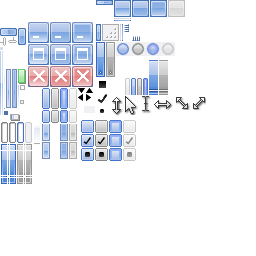
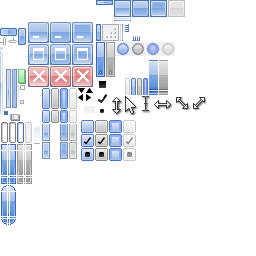
bugfixes

Changed region(s): [[0.0, 0.7188, 0.0625, 0.875]]

diff --git a/api/gui.cpp b/api/gui.cpp
@@ -14,7 +14,7 @@
 #define STANDARD_BACKGROUND_COLOR (0xFFF0F0F5)
 
 // TODO Prevent flickering during window resize.
-// TODO Buggy animations with window resize handles.
+// TODO Bottom of titlebar text cutoff.
 
 struct UIImage {
 	OSRectangle region;
@@ -99,7 +99,7 @@ struct Control : APIObject {
 	LinkedItem<Control> timerControlItem;
 	uint16_t timerHz, timerStep;
 
-	uint8_t animationStep, finalAnimationStep;
+	uint8_t animationStep, finalAnimationStep, noAnimations : 1;
 	uint8_t from1, from2, from3, from4;
 	uint8_t current1, current2, current3, current4;
 };
@@ -164,17 +164,22 @@ static void UpdateCheckboxIcons(Control *control) {
 void OSAnimateControl(OSObject _control, bool fast) {
 	Control *control = (Control *) _control;
 
-	control->from1 = control->current1;
-	control->from2 = control->current2;
-	control->from3 = control->current3;
-	control->from4 = control->current4;
-	control->animationStep = 0;
-	control->finalAnimationStep = fast ? 4 : 16;
+	if (!control->noAnimations) {
+		control->from1 = control->current1;
+		control->from2 = control->current2;
+		control->from3 = control->current3;
+		control->from4 = control->current4;
+		control->animationStep = 0;
+		control->finalAnimationStep = fast ? 4 : 16;
 
-	if (!control->timerControlItem.list) {
-		control->timerHz = 30;
-		control->window->timerControls.InsertStart(&control->timerControlItem);
-		control->timerControlItem.thisItem = control;
+		if (!control->timerControlItem.list) {
+			control->timerHz = 30;
+			control->window->timerControls.InsertStart(&control->timerControlItem);
+			control->timerControlItem.thisItem = control;
+		}
+	} else {
+		control->animationStep = 16;
+		control->finalAnimationStep = 16;
 	}
 
 	OSRepaintControl(control);
@@ -281,25 +286,23 @@ static OSCallbackResponse ProcessControlMessage(OSObject _object, OSMessage *mes
 				control->current4 = ((disabled ? 15 : 0) - control->from4) * control->animationStep / control->finalAnimationStep + control->from4;
 
 				if (control->background) {
-					if (control->current1) {
-						OSDrawSurface(message->paint.surface, OS_SURFACE_UI_SHEET, control->bounds, control->background->region, 
-								control->background->border, OS_DRAW_MODE_REPEAT_FIRST, 0xFF);
-					}
+					OSDrawSurface(message->paint.surface, OS_SURFACE_UI_SHEET, control->bounds, control->background->region, 
+							control->background->border, OS_DRAW_MODE_REPEAT_FIRST, 0xFF);
+				}
 
-					if (control->current2) {
-						OSDrawSurface(message->paint.surface, OS_SURFACE_UI_SHEET, control->bounds, control->hoverBackground->region, 
-								control->hoverBackground->border, OS_DRAW_MODE_REPEAT_FIRST, control->current2 == 15 ? 0xFF : 0xF * control->current2);
-					}
+				if (control->hoverBackground && control->current2) {
+					OSDrawSurface(message->paint.surface, OS_SURFACE_UI_SHEET, control->bounds, control->hoverBackground->region, 
+							control->hoverBackground->border, OS_DRAW_MODE_REPEAT_FIRST, control->current2 == 15 ? 0xFF : 0xF * control->current2);
+				}
 
-					if (control->current3) {
-						OSDrawSurface(message->paint.surface, OS_SURFACE_UI_SHEET, control->bounds, control->dragBackground->region, 
-								control->dragBackground->border, OS_DRAW_MODE_REPEAT_FIRST, control->current3 == 15 ? 0xFF : 0xF * control->current3);
-					}
+				if (control->dragBackground && control->current3) {
+					OSDrawSurface(message->paint.surface, OS_SURFACE_UI_SHEET, control->bounds, control->dragBackground->region, 
+							control->dragBackground->border, OS_DRAW_MODE_REPEAT_FIRST, control->current3 == 15 ? 0xFF : 0xF * control->current3);
+				}
 
-					if (control->current4) {
-						OSDrawSurface(message->paint.surface, OS_SURFACE_UI_SHEET, control->bounds, control->disabledBackground->region, 
-								control->disabledBackground->border, OS_DRAW_MODE_REPEAT_FIRST, control->current4 == 15 ? 0xFF : 0xF * control->current4);
-					}
+				if (control->disabledBackground && control->current4) {
+					OSDrawSurface(message->paint.surface, OS_SURFACE_UI_SHEET, control->bounds, control->disabledBackground->region, 
+							control->disabledBackground->border, OS_DRAW_MODE_REPEAT_FIRST, control->current4 == 15 ? 0xFF : 0xF * control->current4);
 				}
 
 				if (control->icon) {
@@ -502,6 +505,7 @@ static OSObject CreateWindowResizeHandle(UIImage *image, UIImage *disabledImage,
 	control->preferredHeight = image->region.bottom - image->region.top;
 	control->direction = direction;
 	control->backgroundColor = STANDARD_BACKGROUND_COLOR;
+	control->noAnimations = true;
 	OSSetCallback(control, OSCallback(ProcessWindowResizeHandleMessage, nullptr));
 
 	switch (direction) {

diff --git a/kernel/memory.cpp b/kernel/memory.cpp
@@ -86,6 +86,7 @@ enum VMMMapPolicy {
 #define VMM_REGION_FLAG_READ_ONLY    (64)
 #define VMM_REGION_FLAG_OVERWRITABLE (128)
 #define VMM_REGION_FLAG_COPIED       (256)
+#define VAS_SKIP_1MB		     (512)
 
 struct VMMRegion {
 	bool used;
@@ -773,9 +774,13 @@ OSError VMM::Free(void *address, void **object, VMMRegionType *type, bool skipVi
 		for (uintptr_t address = region->baseAddress;
 				address < region->baseAddress + (region->pageCount << PAGE_BITS);
 				address += PAGE_SIZE) {
-			// TODO Optimise this for non-existant page tables.
 			uint64_t flags;
 			uintptr_t mappedAddress = virtualAddressSpace->Get(address, false, &flags);
+
+			if (flags & VAS_SKIP_1MB) {
+				address += 0x100000;
+				continue;
+			}
 
 			if (mappedAddress) {
 				switch (region->type) {
@@ -791,7 +796,6 @@ OSError VMM::Free(void *address, void **object, VMMRegionType *type, bool skipVi
 						// This memory will be freed when the last handle to the shared memory region is closed.
 						
 						// ...unless we copied it.
-						// TODO Test this.
 						if (flags & VMM_REGION_FLAG_COPIED) {
 							pmm.FreePage(mappedAddress);
 						}
@@ -1507,6 +1511,11 @@ uintptr_t VirtualAddressSpace::Get(uintptr_t virtualAddress, bool force, uint64_
 	}
 
 	if ((PAGE_TABLE_L2[indexL2] & 1) == 0) {
+		if (!(indexL1 & 0xFF) && flags) {
+			// All these addresses must also point to 0.
+			*flags |= VAS_SKIP_1MB;
+		}
+
 		return 0;
 	}
 
@@ -1523,7 +1532,7 @@ uintptr_t VirtualAddressSpace::Get(uintptr_t virtualAddress, bool force, uint64_
 			}
 		}
 
-		return physicalAddress & 0xFFFFFFFFFFFFF000;
+		return physicalAddress & 0x000FFFFFFFFFF000;
 	} else {
 		return 0;
 	}

diff --git a/kernel/graphics.cpp b/kernel/graphics.cpp
@@ -69,6 +69,9 @@ struct Surface {
 	// Only valid if the corresponding bit is set in the modified scanline bitset.
 	ModifiedScanline *modifiedScanlines;
 
+	// Prevent invalidating the corners on the surface, so that they will never be copied (i.e. transparent).
+	bool roundCorners;
+
 	// 'memory' consists of 3 sections:
 	// 	  Contents				Size					Offset					Optional?
 	// 	- Pixel data				resX * resY * 4				0					No
@@ -371,6 +374,22 @@ void Surface::ClearModifiedRegion() {
 
 void Surface::InvalidateScanline(uintptr_t y, uintptr_t from, uintptr_t to) {
 	mutex.AssertLocked();
+
+	if (roundCorners) {
+		if (y == 0 || y == resY - 1) {
+			if (from < 5) from = 5;
+			if (to >= resX - 5) to = resX - 5;
+		} else if (y == 1 || y == resY - 2) {
+			if (from < 3) from = 3;
+			if (to >= resX - 3) to = resX - 3;
+		} else if (y == 2 || y == resY - 3) {
+			if (from < 2) from = 2;
+			if (to >= resX - 2) to = resX - 2;
+		} else if (y == 3 || y == 4 || y == resY - 4 || y == resY - 5) {
+			if (from < 1) from = 1;
+			if (to >= resX - 1) to = resX - 1;
+		}
+	}
 
 	if ((modifiedScanlineBitset[y >> 3] & 1 << (y & 7))) {
 		if (modifiedScanlines[y].minimumX > from)

diff --git a/api/test.cpp b/api/test.cpp
@@ -14,6 +14,15 @@ struct y {
 
 y y2 = {1, 2};
 
+OSCallbackResponse Crash(OSObject object, OSMessage *message) {
+	(void) object;
+	(void) message;
+
+	OSCrashProcess(10000);
+
+	return OS_CALLBACK_HANDLED;
+}
+
 OSCallbackResponse ProcessActionOK(OSObject object, OSMessage *message) {
 	(void) object;
 	(void) message;
@@ -448,6 +457,7 @@ extern "C" void ProgramEntry() {
 	actionOK.label = (char *) "Do Something";
 	actionOK.checkable = true;
 	actionOK.labelBytes = OSCStringLength(actionOK.label);
+	actionOK.callback = OSCallback(Crash, nullptr);
 	
 	OSObject b;
 	OSObject content = OSCreateGrid(2, 1, 0);

diff --git a/kernel/window_manager.cpp b/kernel/window_manager.cpp
@@ -1,5 +1,3 @@
-// TODO I really want rounded corners.......
-
 #ifndef IMPLEMENTATION
 
 #define SCANCODE_KEY_RELEASED (1 << 15)
@@ -471,6 +469,7 @@ Window *WindowManager::CreateWindow(Process *process, OSRectangle bounds, OSObje
 	Window *window = (Window *) OSHeapAllocate(sizeof(Window), true);
 	window->surface = (Surface *) OSHeapAllocate(sizeof(Surface), true);
 	window->apiWindow = apiWindow;
+	// window->surface->roundCorners = true;
 
 	size_t width = bounds.right - bounds.left;
 	size_t height = bounds.bottom - bounds.top;
